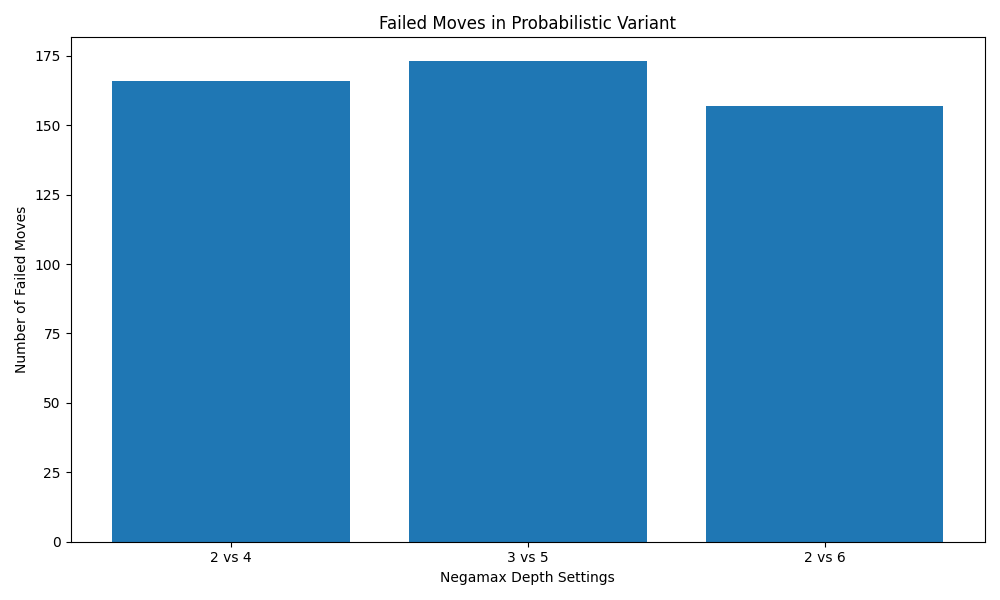
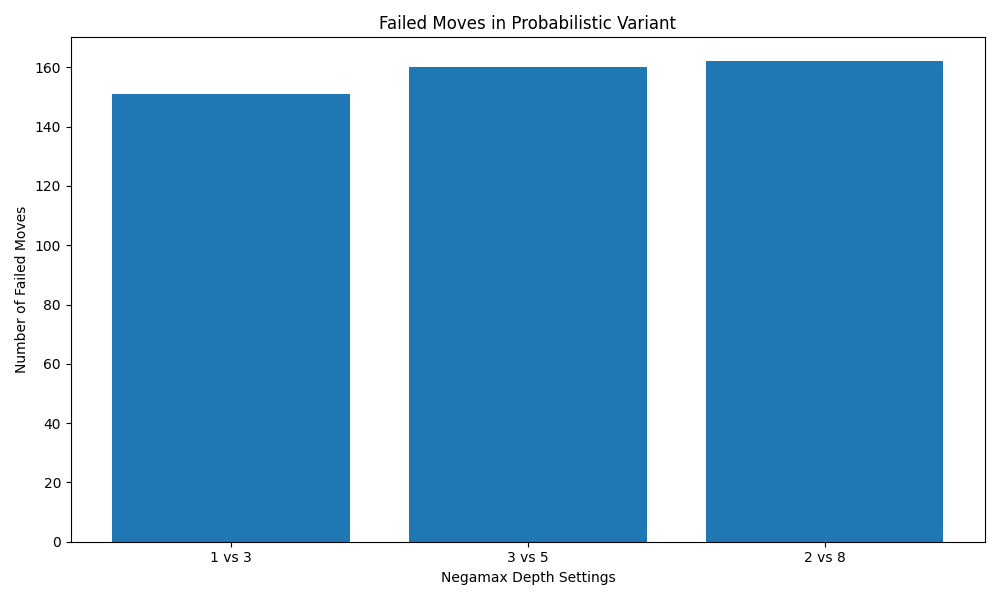
proj1

diff --git a/project1/easyai_1.py b/project1/easyai_1.py
@@ -182,7 +182,7 @@ def run_experiment(depth1, depth2, num_games=100, probabilistic=True):
 
 def compare_depths_and_variants():
     """Compare different depth settings in both deterministic and probabilistic variants."""
-    depth_pairs = [(2, 4), (3, 5), (2, 8)]
+    depth_pairs = [(1, 3), (3, 5), (2, 8)]
     num_games = 100
 
     results = []

diff --git a/project1/tictacdoh_report_8.md b/project1/tictacdoh_report_8.md
@@ -23,7 +23,7 @@ W eksperymentach wykorzystano algorytm Negamax, który jest wariantem algorytmu 
 ## 3. Przeprowadzone eksperymenty
 
 Przeprowadzono serię eksperymentów mających na celu porównanie:
-- Różnych ustawień głębokości algorytmu Negamax (porównywano głębokości 1 vs 3 oraz 3 vs 5)
+- Różnych ustawień głębokości algorytmu Negamax (porównywano głębokości 2 vs 4 oraz 3 vs 5)
 - Deterministycznego i probabilistycznego wariantu gry
 
 Każdy eksperyment obejmował 100 gier między dwoma graczami AI, przy czym gracze na zmianę rozpoczynali kolejne partie.
@@ -34,7 +34,7 @@ Każdy eksperyment obejmował 100 gier między dwoma graczami AI, przy czym grac
 
 | Głębokości | Wygrane Gracz 1 | Wygrane Gracz 2 | Remisy |
 |------------|-----------------|-----------------|--------|
-| 1 vs 3 | 50 | 50 | 0 |
+| 2 vs 4 | 50 | 50 | 0 |
 | 3 vs 5 | 50 | 50 | 0 |
 | 2 vs 8 | 50 | 50 | 0 |
 
@@ -42,9 +42,9 @@ Każdy eksperyment obejmował 100 gier między dwoma graczami AI, przy czym grac
 
 | Głębokości | Wygrane Gracz 1 | Wygrane Gracz 2 | Remisy | Nieudane ruchy |
 |------------|-----------------|-----------------|--------|----------------|
-| 1 vs 3 | 36 | 50 | 14 | 151 |
-| 3 vs 5 | 40 | 48 | 12 | 160 |
-| 2 vs 8 | 33 | 51 | 16 | 162 |
+| 2 vs 4 | 35 | 50 | 15 | 179 |
+| 3 vs 5 | 38 | 49 | 13 | 158 |
+| 2 vs 8 | 31 | 52 | 17 | 162 |
 
 ## 5. Analiza wyników
 
